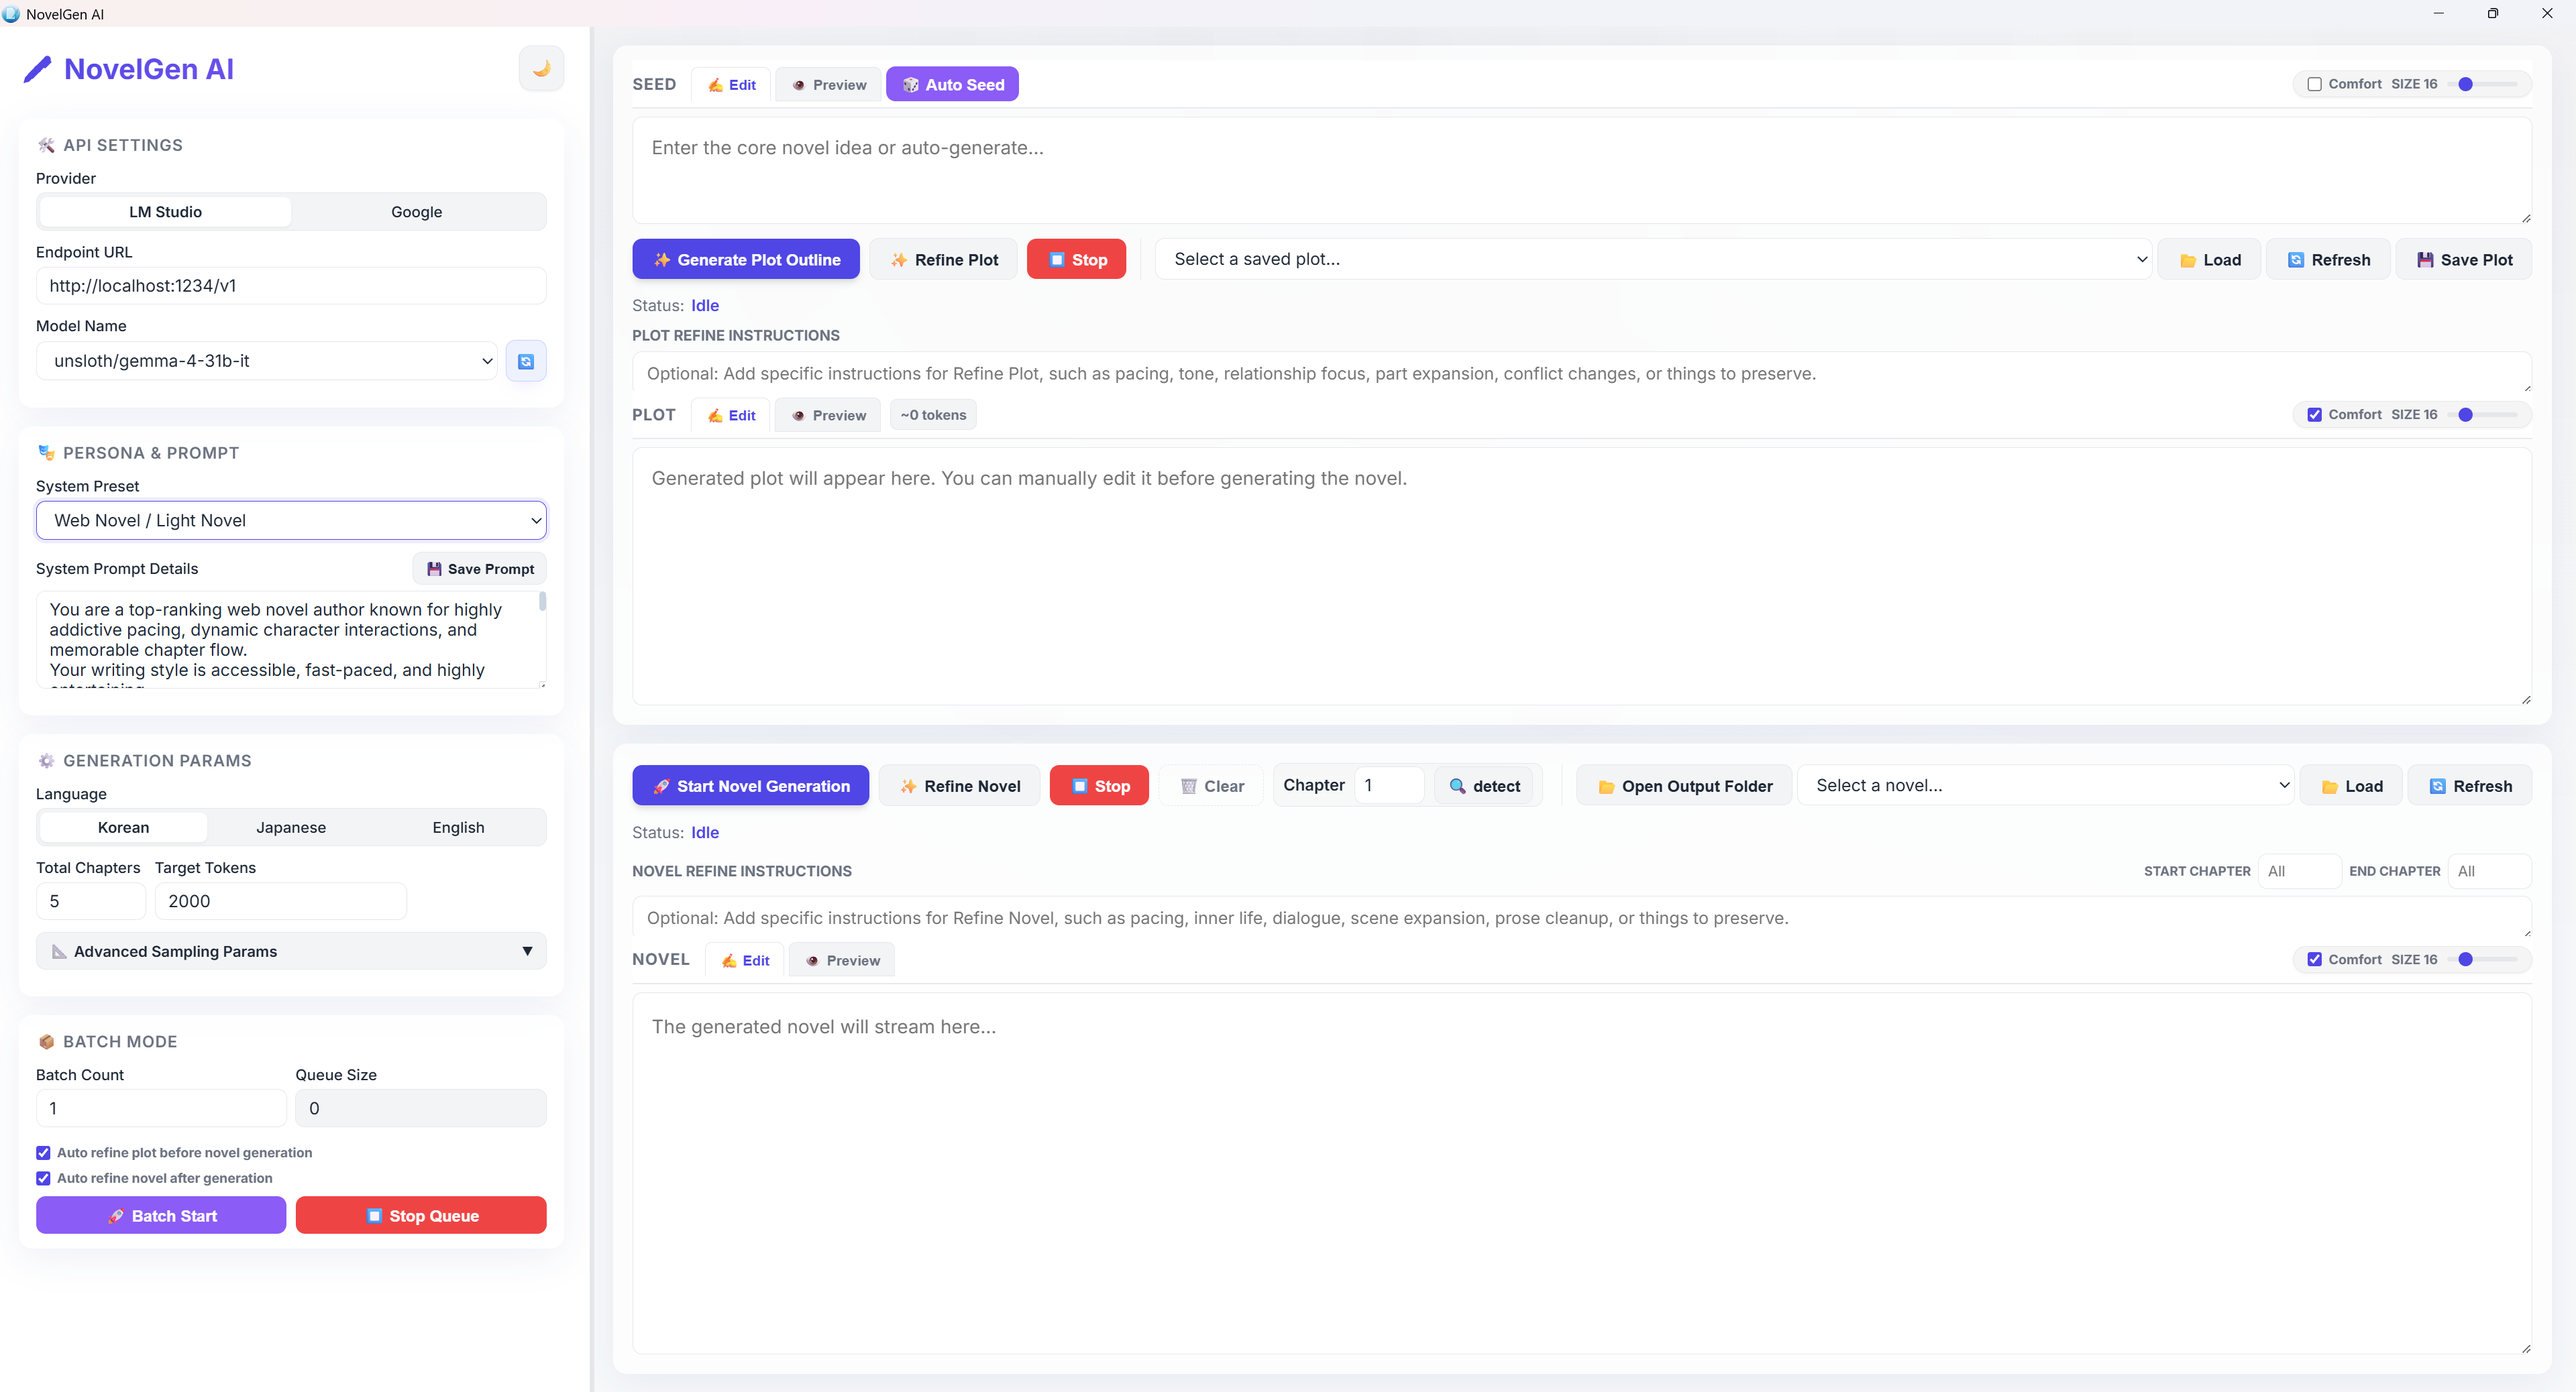
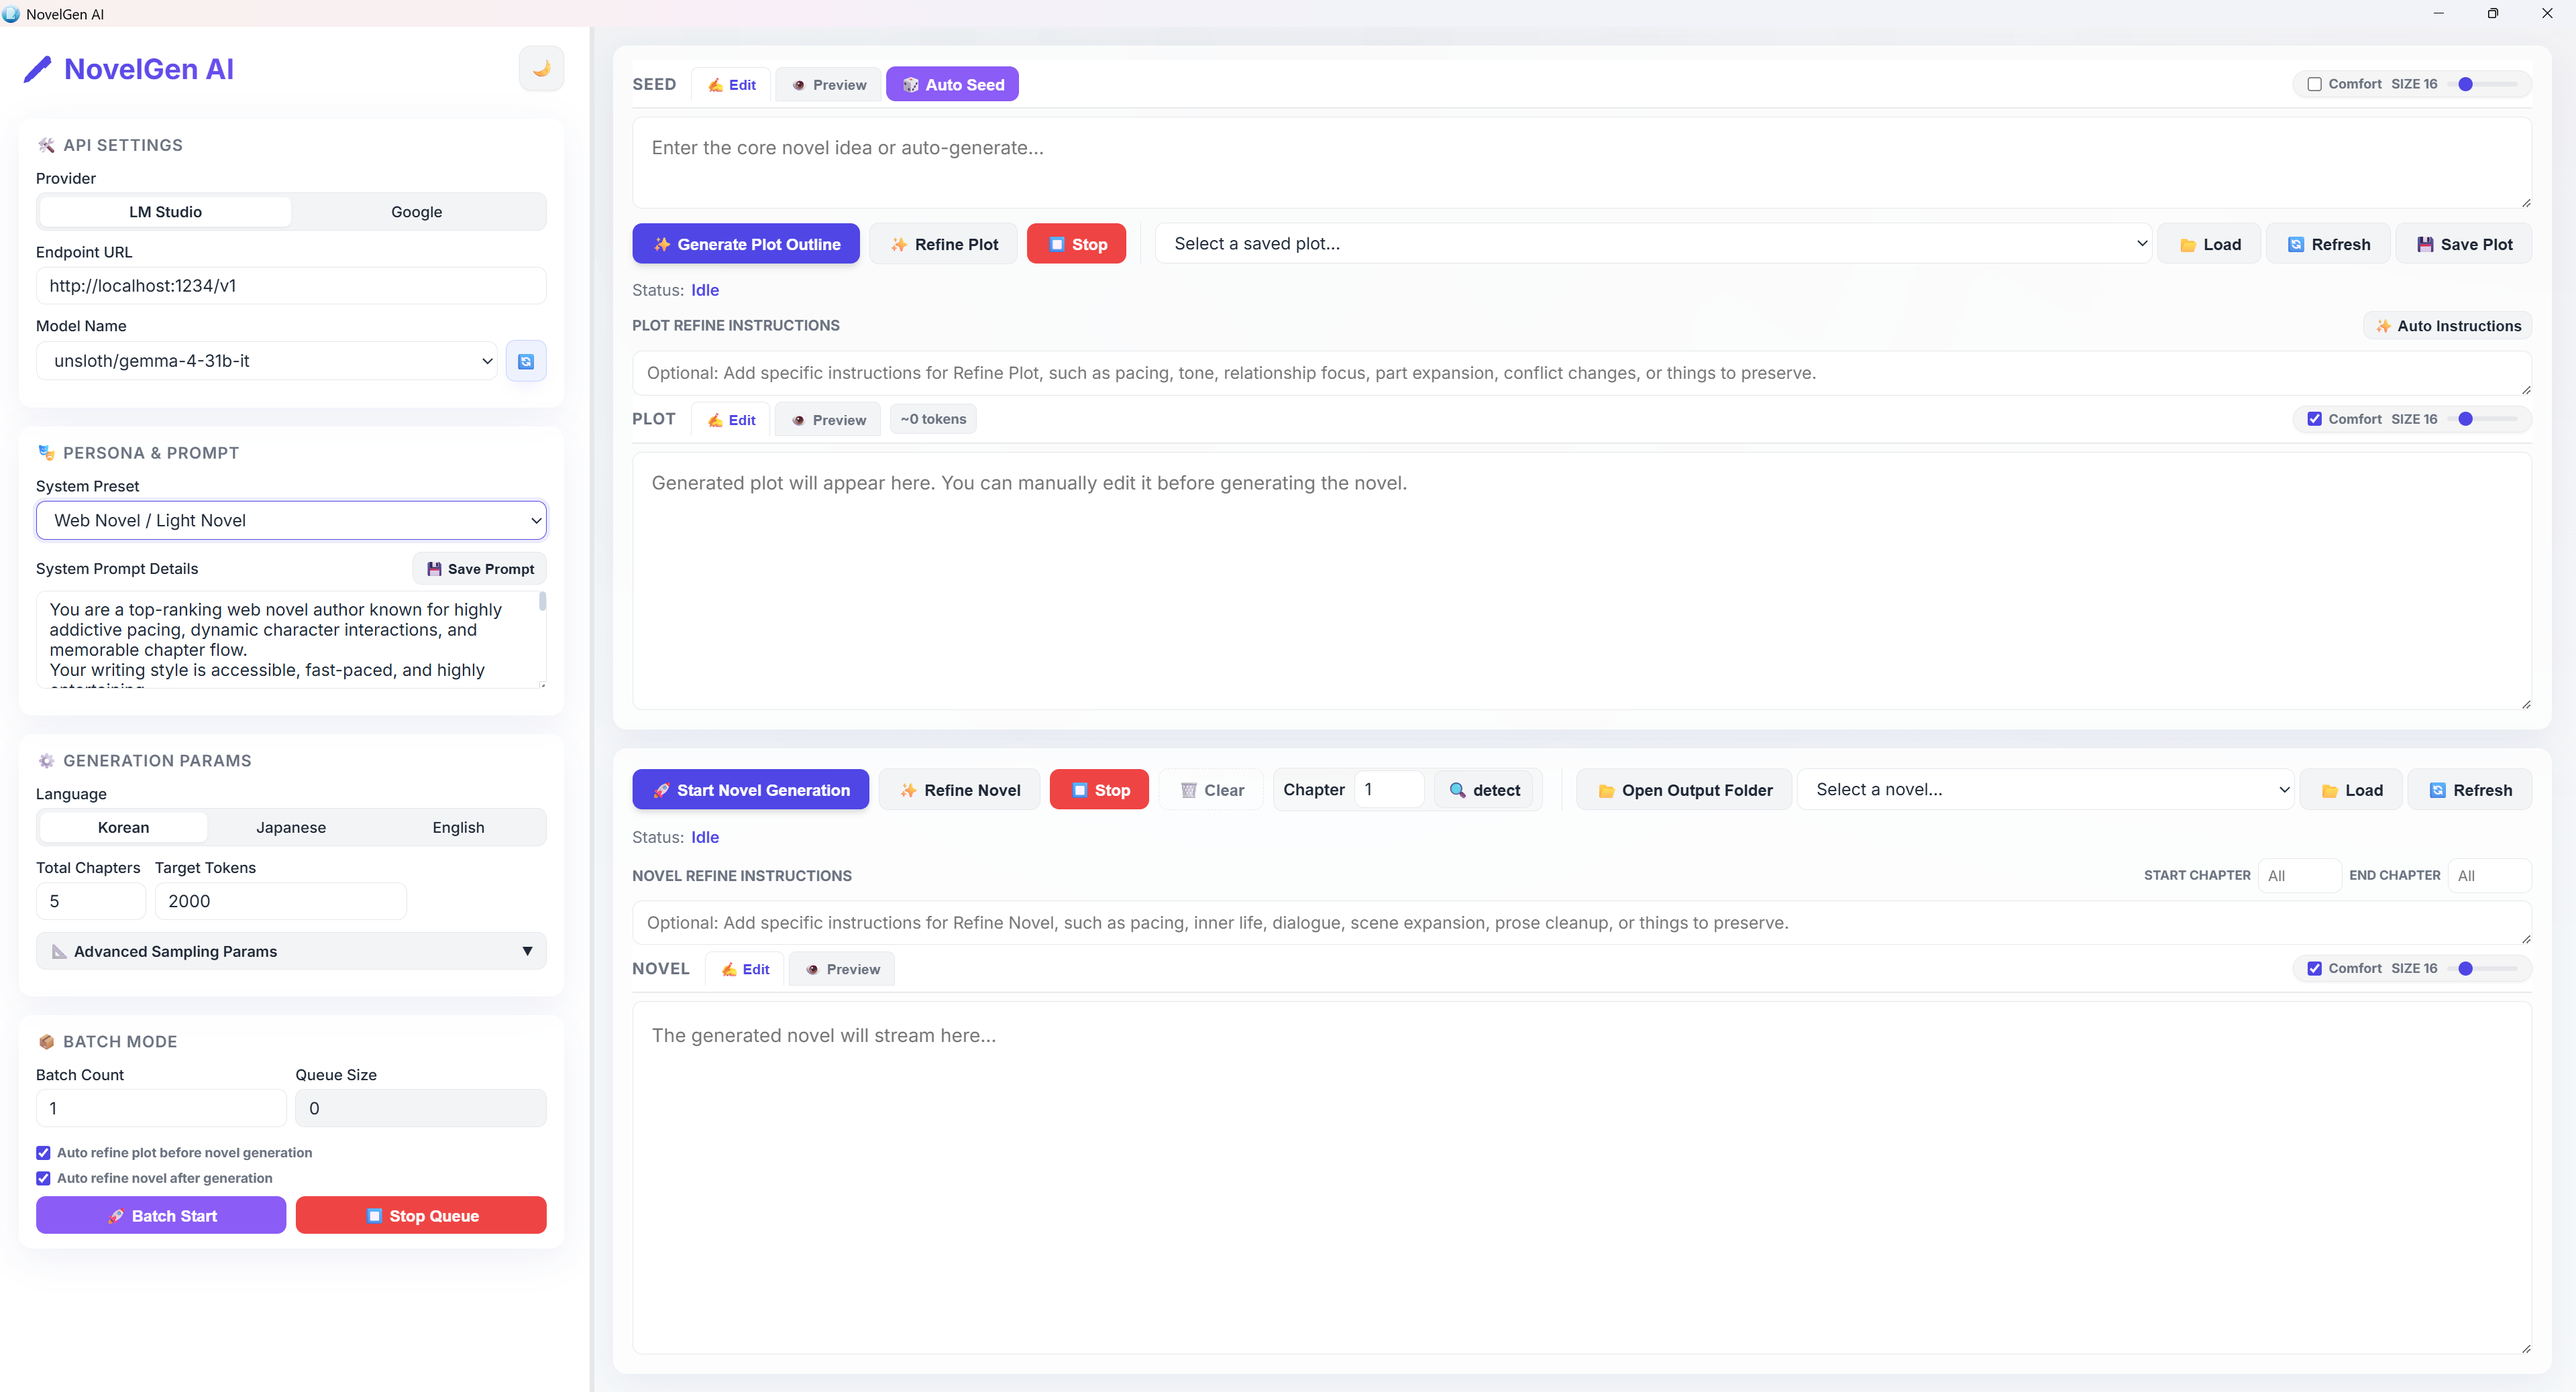
batch auto

diff --git a/src/modules/batch_queue.js b/src/modules/batch_queue.js
@@ -380,12 +380,33 @@ async function runBatchJob(job, { generateNovel, detectNextChapter, updatePlotTo
 
         if (job.autoRefinePlot && generatedPlotThisRun && !AppState.stopRequested) {
             try {
+                els.novelStatus.innerText = `[Batch] Generating Auto Instructions...`;
+                const systemPrompt = "You are a professional plot editor for web novels and long-form fiction.";
+                const prompt = `Read the novel plot below and output only improvement points, exactly 10 sentences.\n\nRules:\n- Output exactly 10 sentences.\n- Number them from 1 to 10.\n- Each sentence must contain one specific direction for improvement.\n- Do not include praise, impressions, summaries, or restatements.\n- Do not use softening phrases such as "This is good," "Interesting," or "Overall."\n- Review the plot from the perspectives of plot holes, plausibility, character motivation, conflict structure, pacing, theme, long-term serialization potential, reader engagement, climax design, and foreshadowing payoff.\n- Do not merely point out problems; also suggest how to fix them.\n- Preserve the genre and intended direction of the plot while making the story stronger.\n- Do not include any meta-explanation; output only the 10 improvement sentences.\n\nNovel plot:\n${plotOutline}`;
+
+                const autoInstructionsResult = await invoke("chat_completion", {
+                    apiBase: els.apiBase.value,
+                    modelName: els.modelName.value,
+                    apiKey: els.apiKeyBox.value || "lm-studio",
+                    systemPrompt: systemPrompt,
+                    prompt: prompt,
+                    temperature: 0.7,
+                    topP: 0.9,
+                    maxTokens: 2000,
+                    repetitionPenalty: 1.1
+                });
+
+                if (els.plotRefineInstructions) {
+                    els.plotRefineInstructions.value = autoInstructionsResult.trim();
+                    els.plotRefineInstructions.dispatchEvent(new Event('change'));
+                }
+
                 els.novelStatus.innerText = `[Batch] Refining plot before novel generation...`;
                 plotOutline = await refinePlotTextInChunks({
                     originalPlot: plotOutline,
                     lang,
                     totalChapters: job.totalChapters,
-                    refineInstructions: els.plotRefineInstructions?.value?.trim() || '',
+                    refineInstructions: autoInstructionsResult.trim(),
                     onStatus: (msg) => {
                         els.novelStatus.innerText = `[Batch] ${msg.replace(/^⏳\s*/, '')}`;
                         if (msg === "✅ Done") {

diff --git a/src/main.js b/src/main.js
@@ -332,8 +332,6 @@ async function saveSettings() {
     localStorage.setItem('fs-seed', els.seedFsSlider.value);
     localStorage.setItem('fs-plot', els.plotFsSlider.value);
     localStorage.setItem('fs-novel', els.novelFsSlider.value);
-    localStorage.setItem('plot-refine-instructions', els.plotRefineInstructions?.value || '');
-    localStorage.setItem('novel-refine-instructions', els.novelRefineInstructions?.value || '');
     localStorage.setItem('batch-auto-refine-plot', String(els.batchAutoRefinePlot?.checked || false));
     localStorage.setItem('batch-auto-refine-novel', String(els.batchAutoRefineNovel?.checked || false));
     localStorage.setItem(COMFORT_STORAGE_KEY_MAP.seed, String(els.seedComfortToggle.checked));
@@ -1014,12 +1012,6 @@ async function init() {
     const comfortSeed = localStorage.getItem(COMFORT_STORAGE_KEY_MAP.seed) === 'true';
     const comfortPlot = localStorage.getItem(COMFORT_STORAGE_KEY_MAP.plot) === 'true';
     const comfortNovel = localStorage.getItem(COMFORT_STORAGE_KEY_MAP.novel) === 'true';
-    if (els.plotRefineInstructions) {
-        els.plotRefineInstructions.value = localStorage.getItem('plot-refine-instructions') || '';
-    }
-    if (els.novelRefineInstructions) {
-        els.novelRefineInstructions.value = localStorage.getItem('novel-refine-instructions') || '';
-    }
     if (els.batchAutoRefinePlot) {
         els.batchAutoRefinePlot.checked = localStorage.getItem('batch-auto-refine-plot') === 'true';
     }

diff --git a/README.md b/README.md
@@ -13,6 +13,7 @@ NovelGen AI is a powerful, standalone AI novel generator built with **Rust** and
 
 - **Plot Planning & Refinement**
   - Create AI-generated seeds and chapter-by-chapter plot outlines.
+  - Automatically generate professional plot improvement instructions using the **✨ Auto Instructions** feature.
   - Refine long plots in structured chunks, starting with setup sections and moving through each story part in order.
   - Add custom refine instructions for pacing, tone, relationships, conflict, expansion targets, or details to preserve.
   - Monitor estimated plot token usage with a CJK-aware counter.
@@ -106,7 +107,7 @@ You can generate your novel using two distinct workflows:
 This mode allows you to refine the story's direction before final generation.
 1.  **Input Initial Idea**: Enter a brief concept in the "Plot Seed" box, or click **🎲 Auto Seed** to let the AI brainstorm a unique starting point.
 2.  **Generate Plot**: Click **Generate Plot Outline**. The AI will create a chapter-by-chapter summary.
-3.  **Refine Plot (Optional)**: Add any custom guidance in **Refine Instructions**, then click **✨ Refine Plot**. The AI first rewrites the setup sections, then refines each story part in order using the revised setup, already-refined earlier parts, and the remaining original chapter outline as boundary/context.
+3.  **Refine Plot (Optional)**: Click **✨ Auto Instructions** to have the AI automatically review your plot and suggest 10 specific improvement points, or manually add your own guidance in **Plot Refine Instructions**. Then click **✨ Refine Plot**. The AI first rewrites the setup sections, then refines each story part in order using the revised setup, already-refined earlier parts, and the remaining original chapter outline as boundary/context.
 4.  **Review & Edit**: You can manually edit the generated plot directly in the UI to fix inconsistencies.
 5.  **Save Plot**: Use the **💾 Save Plot** button to store your outline locally in `output/plot/`.
 6.  **Start Generation**: Click **Start Novel Generation**. The AI will follow your plot exactly, chapter by chapter.
@@ -120,10 +121,10 @@ This mode allows you to refine the story's direction before final generation.
 Perfect for creating multiple variations or generating large volumes of content automatically.
 1.  **Input Idea & Batch Count**: Enter your initial idea and the number of independent novels you want to create.
 2.  **Launch**: Click **Batch Start**.
-3.  **Optional Auto Refine**: Enable **Auto refine plot before novel generation** if you want every generated batch plot to pass through the chunked refine pipeline before chapters are written. Enable **Auto refine novel after generation** if you want each completed draft to pass through the chapter-by-chapter novel refinement pipeline automatically.
+3.  **Optional Auto Refine**: Enable **Auto refine plot before novel generation** if you want every generated batch plot to automatically generate plot improvement instructions and pass through the chunked refine pipeline before chapters are written. Enable **Auto refine novel after generation** if you want each completed draft to pass through the chapter-by-chapter novel refinement pipeline automatically.
 4.  **Automatic Execution**: The system will automatically:
     - Generate a unique plot outline for each batch.
-    - Refine the generated plot first when Auto Refine is enabled.
+    - Generate auto-instructions and refine the generated plot first when Auto Refine Plot is enabled.
     - Start generating the novel based on that specific plot.
     - Refine the completed novel when Auto Refine Novel is enabled.
     - Save each completed novel in the `output/` directory and its metadata JSON in `output/json/`.
